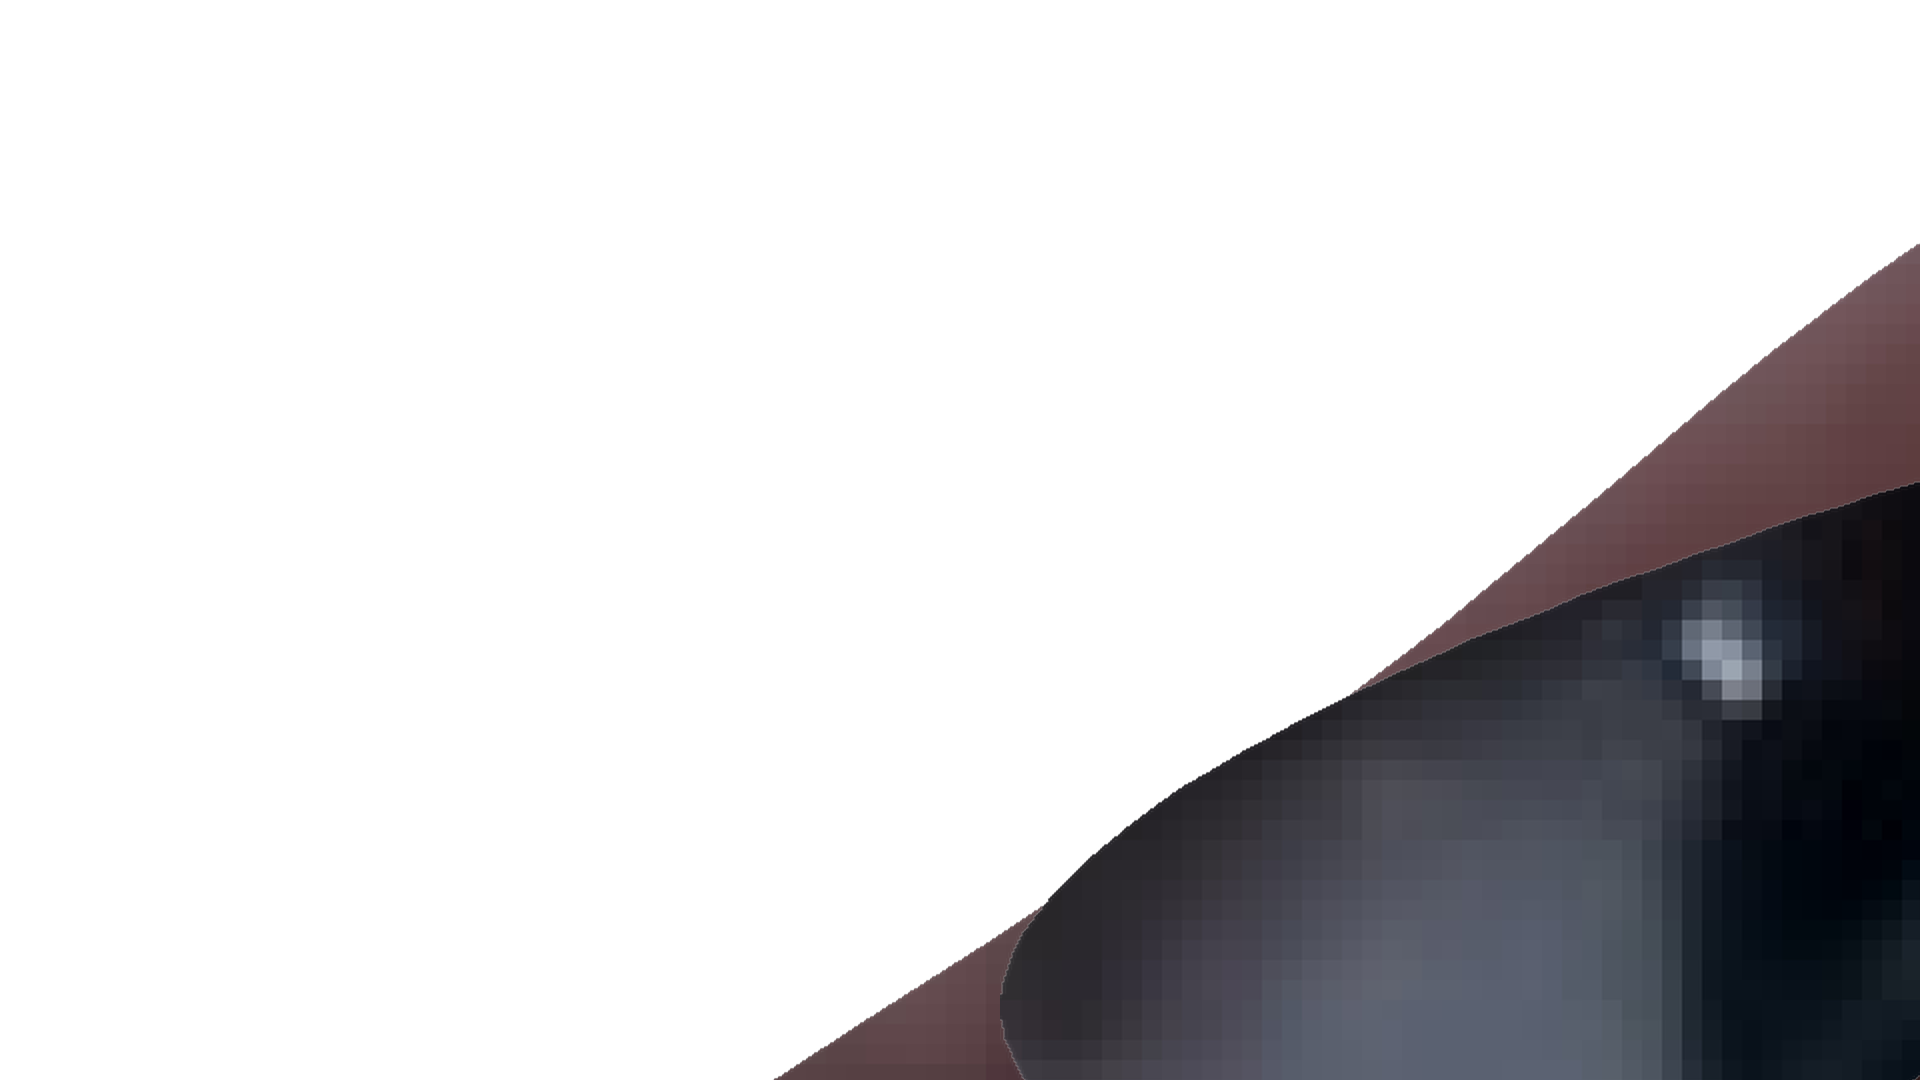
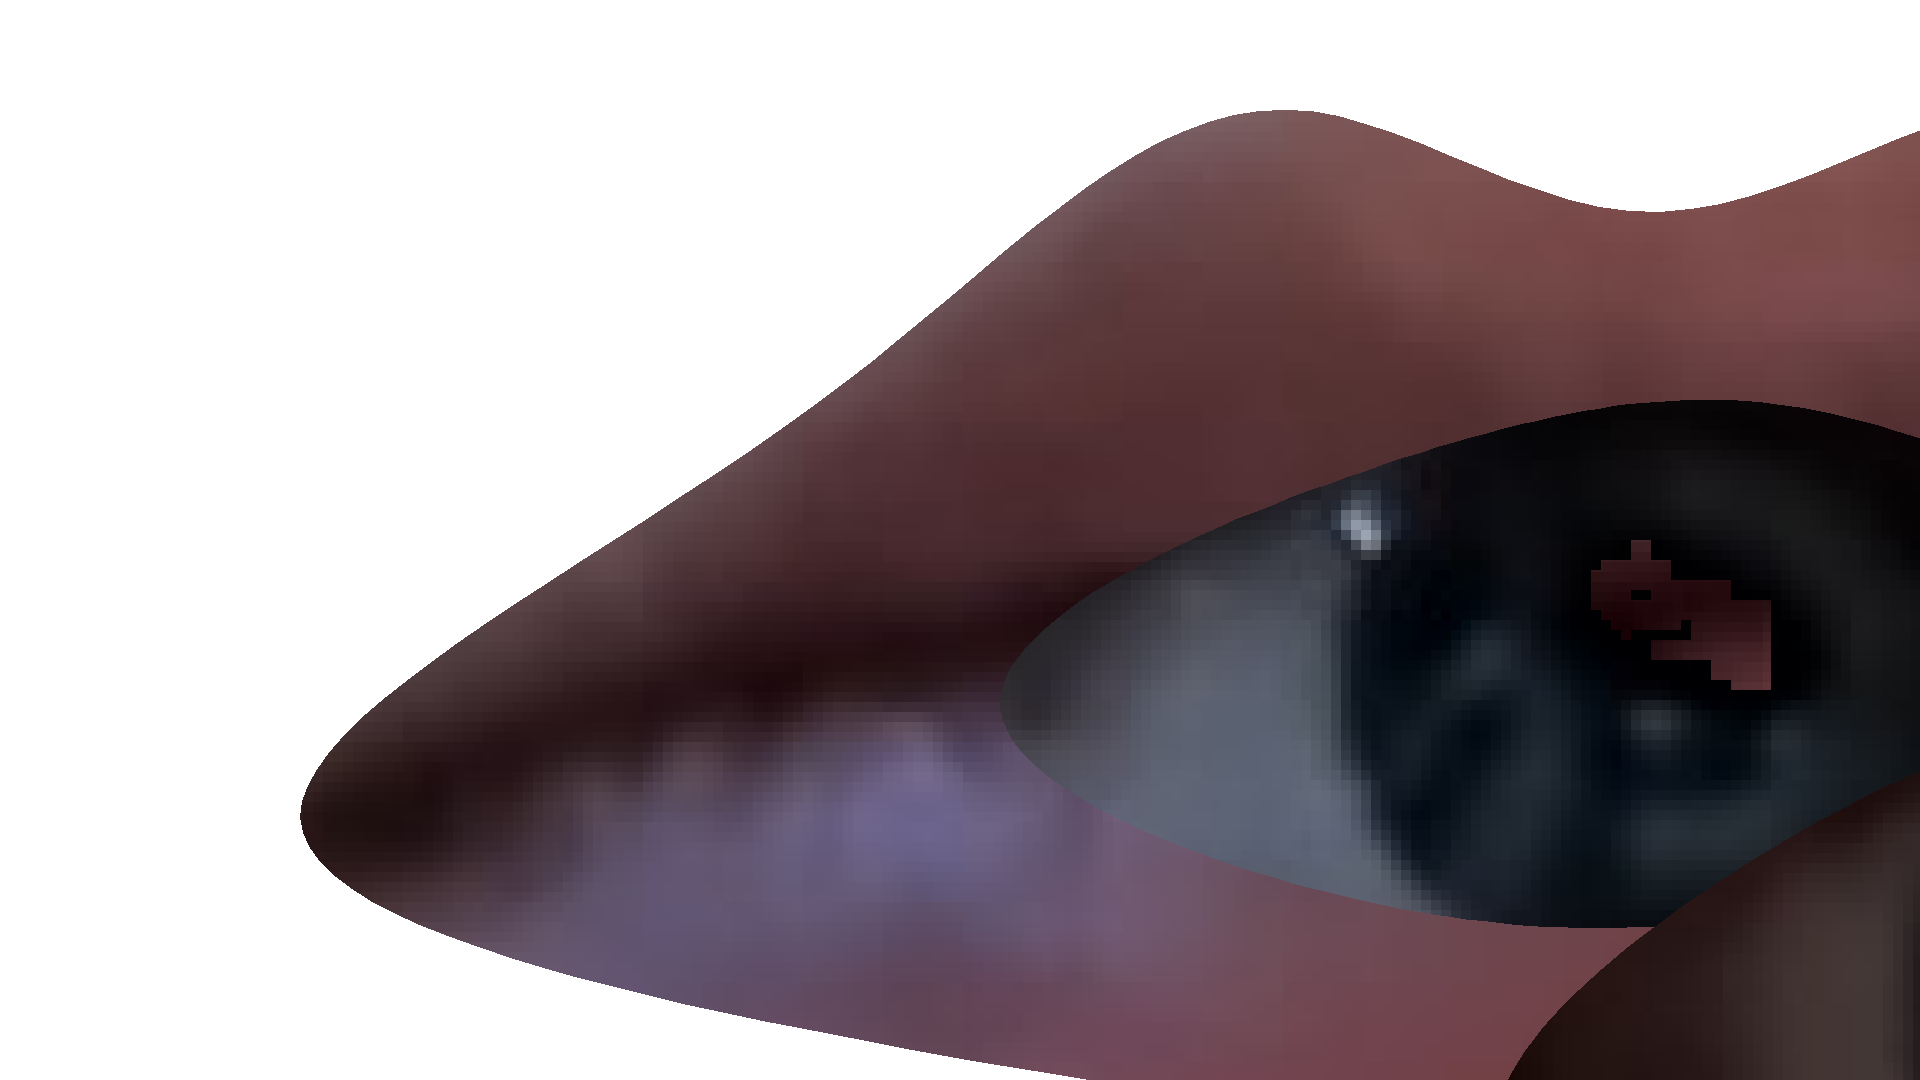
m

diff --git a/img_to_eyes_only.py b/img_to_eyes_only.py
@@ -57,9 +57,9 @@ def do_PIL_processing(mouth_path,left_eye_path,right_eye_path):
     mouth_im = Image.open(mouth_path)
     left_eye_im = Image.open(left_eye_path)
     right_eye_im = Image.open(right_eye_path)
-    mouth_im = anti_alias_resize_path_PIL(mouth_im,2,"mouth_resize")
-    left_eye_im = anti_alias_resize_path_PIL(left_eye_im, 2, "left_resize")
-    right_eye_im = anti_alias_resize_path_PIL(right_eye_im, 2, "right_resize")
+    #mouth_im = anti_alias_resize_path_PIL(mouth_im,2,"mouth_resize")
+    #left_eye_im = anti_alias_resize_path_PIL(left_eye_im, 2, "left_resize")
+    #right_eye_im = anti_alias_resize_path_PIL(right_eye_im, 2, "right_resize")
 
     blank_image = Image.new("RGBA",(1920,1080),(0,0,0,0))
 
